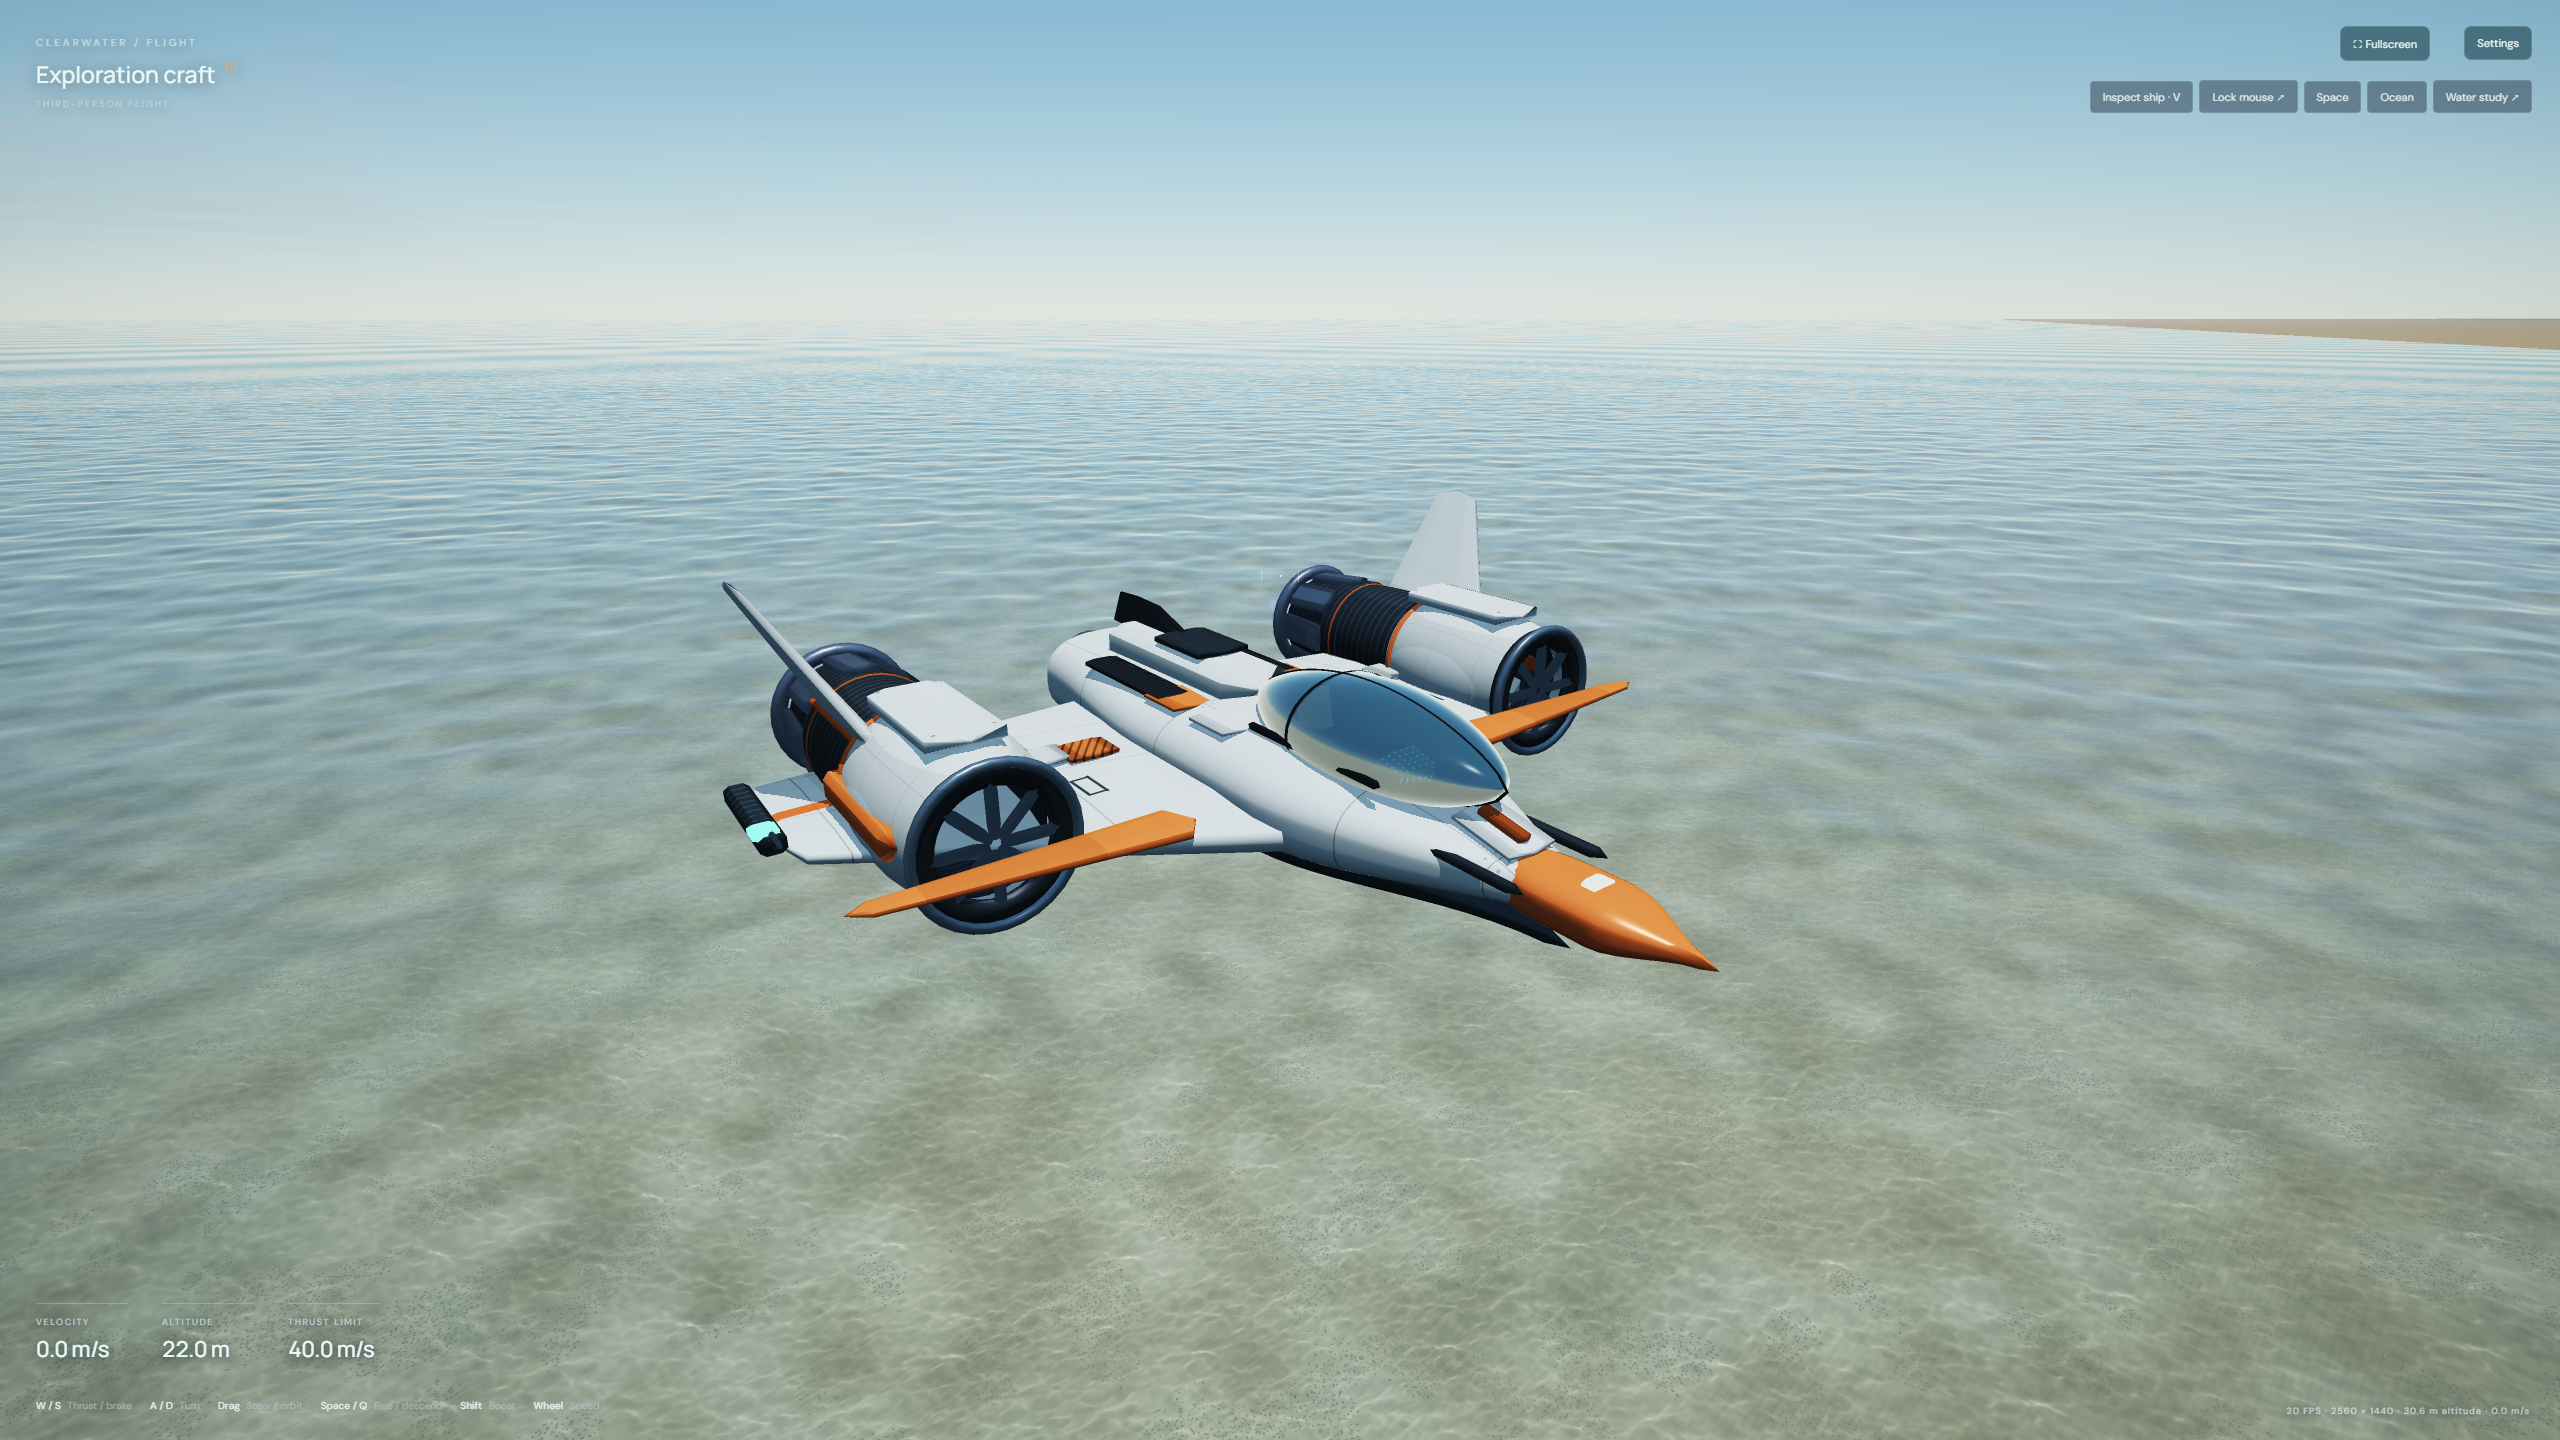
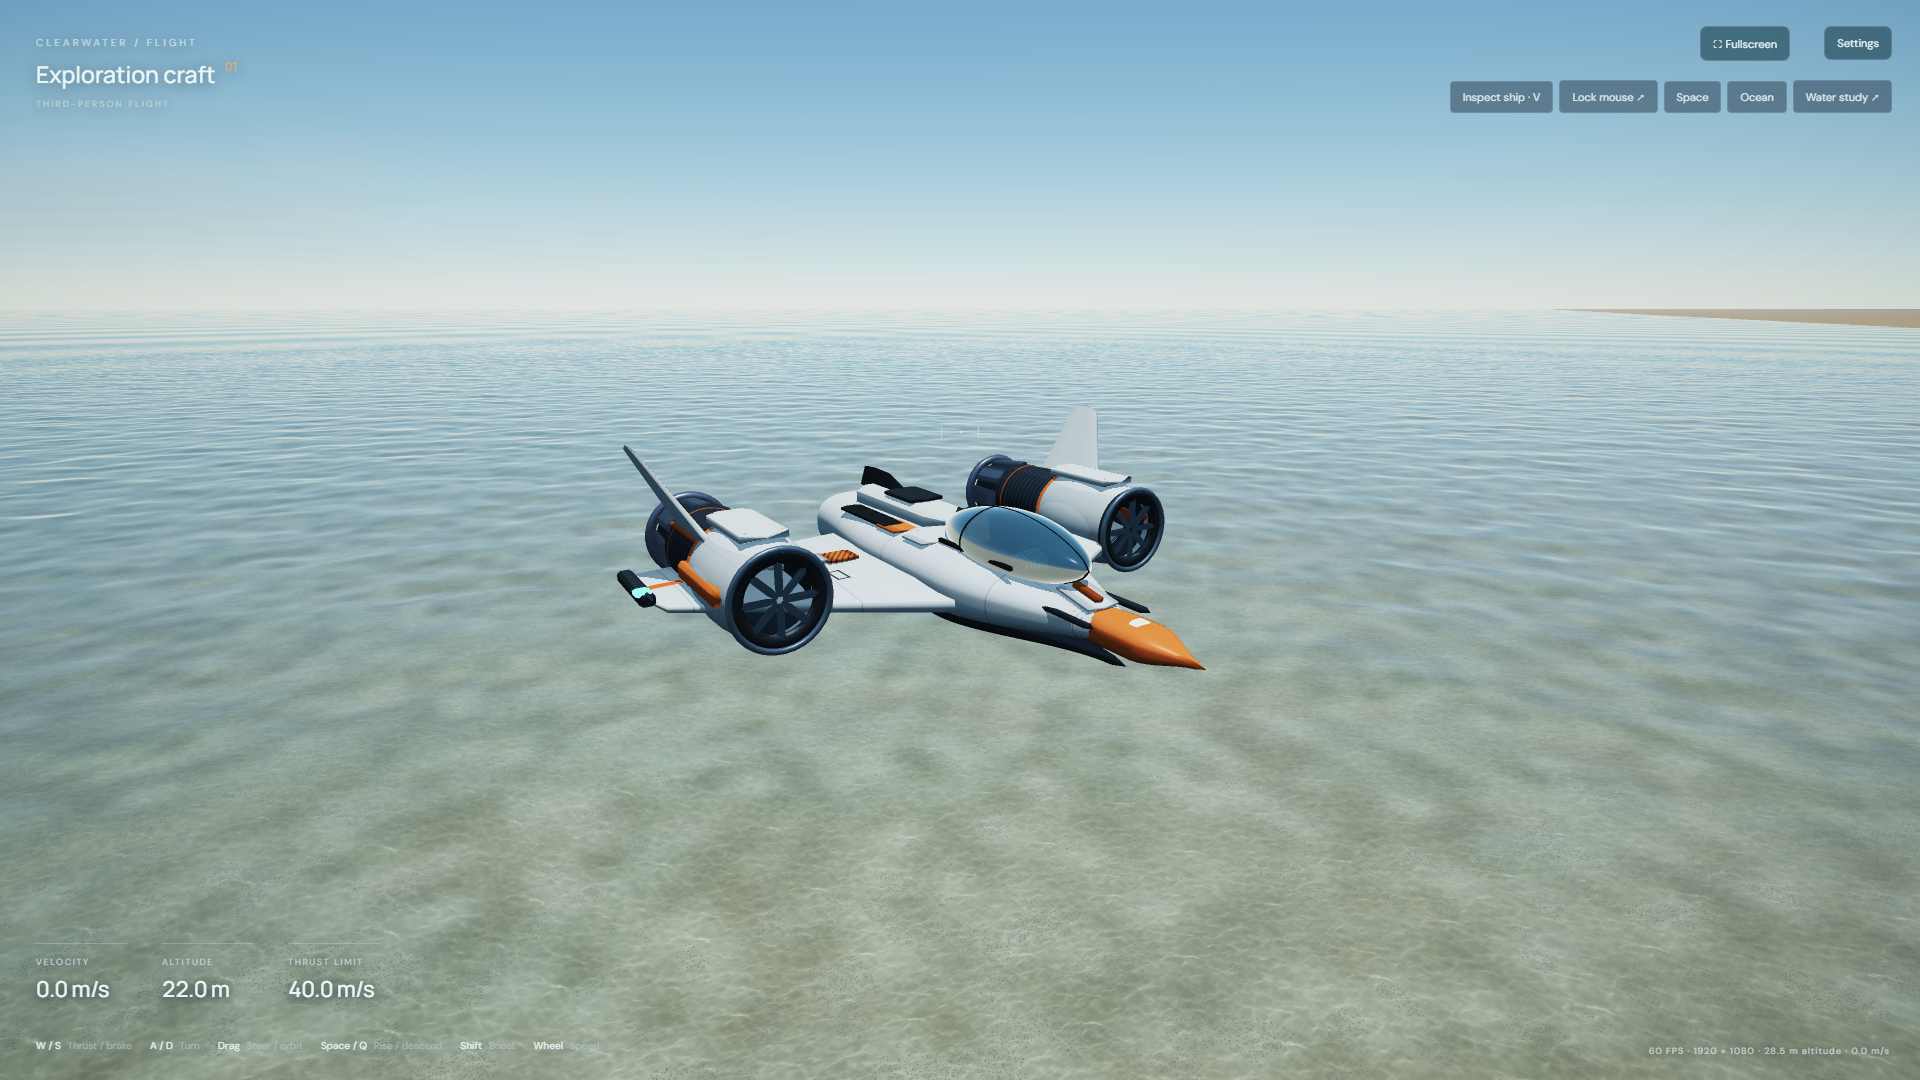
fix: remove orange spacecraft winglets

diff --git a/app.js b/app.js
@@ -232,7 +232,7 @@ async function frame(now){
 async function exclusive(fn){busy=true;try{await runtime.idle();await ensureKernels(qualityKernels());return await fn();}finally{busy=false;}}
 window.waterLab={
  async shipCost(samples=30){let full,water;try{profileSkip=0;full=await waterLab.benchmark(samples);profileSkip=8;water=await waterLab.benchmark(samples);}finally{profileSkip=0;}return {full,water,scope:'Sequential full-scene measurements with and without the ship render pass; not an isolated per-pass timing'};},
- async shipState(){return exclusive(async()=>{const data=await runtime.read(shipData);return {data:Array.from(data),position:Array.from(data.slice(0,3)),angles:Array.from(data.slice(4,7)),speed:data[7],clearance:data[14],finite:data.every(Number.isFinite),triangles:71680,components:128};});},
+ async shipState(){return exclusive(async()=>{const data=await runtime.read(shipData);return {data:Array.from(data),position:Array.from(data.slice(0,3)),angles:Array.from(data.slice(4,7)),speed:data[7],clearance:data[14],finite:data.every(Number.isFinite),triangles:71680,components:126};});},
  async shipView(yaw=.34,elevation=.3,distance=22){return exclusive(async()=>{runtime.device.queue.writeBuffer(shipData.gpuBuffer,32,new Float32Array([yaw,elevation,distance,1]));shipInspect=true;weatherDirty=true;compute(0);await runtime.idle();});},
  async shipAltitude(metres){return exclusive(async()=>{runtime.device.queue.writeBuffer(shipData.gpuBuffer,4,new Float32Array([metres]));weatherDirty=true;compute(0);await runtime.idle();});},
  async shipRayTest(){return exclusive(async()=>{

diff --git a/README.md b/README.md
@@ -20,7 +20,7 @@ Open http://127.0.0.1:5191 in a browser with WebGPU enabled. `npm run build` com
 
 Ordinary visits now start in third-person spacecraft flight. The original water study remains at `?mode=explorer`; frozen `?t=` diagnostic fixtures keep the water-study mode unless `mode=ship` is explicit.
 
-The original ship is generated entirely in `src/ship.cu`, with 128 separate components and 68,800 nondegenerate triangles, denser curved hull and canopy meshes, mirrored wings and stabilizers, turbine intakes, ribbed exhaust hardware, a cockpit frame and interior, procedural paint/metal/glass materials, panel seams, serial markings, self-shadowing and thrust-responsive blue exhaust volumes. No spacecraft models or texture images are imported. The static triangle mesh and its two-level bounding-volume hierarchy are generated once on the GPU. Navigation, flight response, banking, camera tracking, geometry, materials and ray tracing remain in CUDA.
+The original ship is generated entirely in `src/ship.cu`, with 126 separate components and 67,840 nondegenerate triangles, denser curved hull and canopy meshes, mirrored wings and stabilizers, turbine intakes, ribbed exhaust hardware, a cockpit frame and interior, procedural paint/metal/glass materials, panel seams, serial markings, self-shadowing and thrust-responsive blue exhaust volumes. No spacecraft models or texture images are imported. The static triangle mesh and its two-level bounding-volume hierarchy are generated once on the GPU. Navigation, flight response, banking, camera tracking, geometry, materials and ray tracing remain in CUDA.
 
 - **W / S:** thrust / brake. **A / D:** turn and bank.
 - **Drag** to steer, or use **Lock mouse**. **Esc** releases the pointer.
